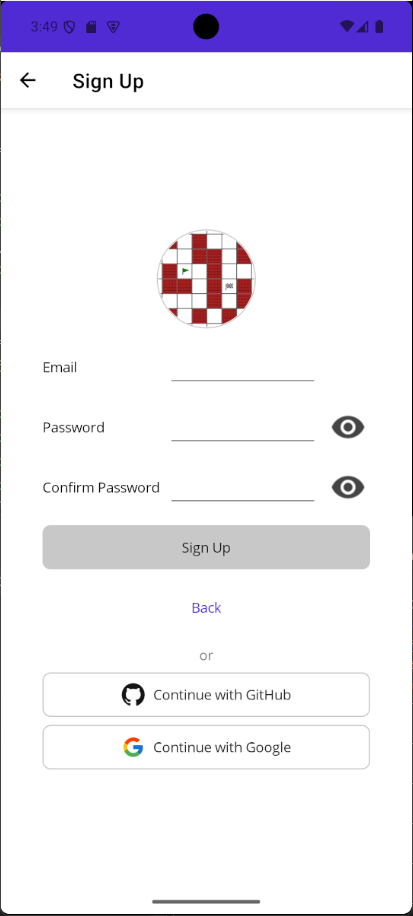
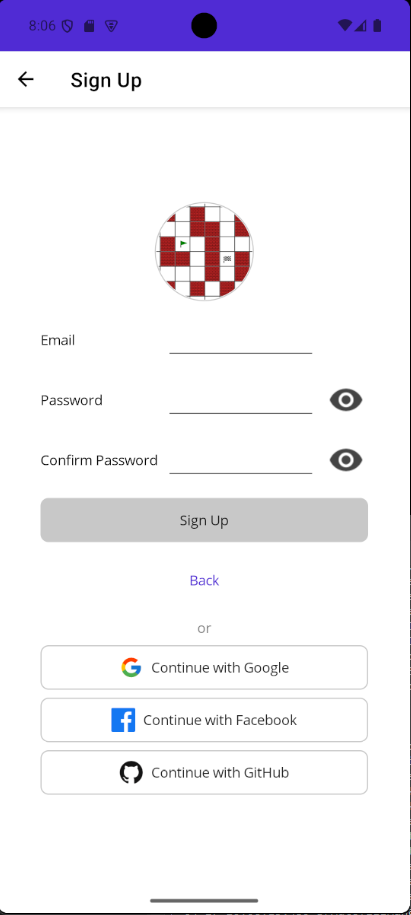
Maze.Maui.App: refresh Login/SignUp screenshots and README OAuth provider lists for the new Facebook button

diff --git a/src/rust/maze_web_server/README.md b/src/rust/maze_web_server/README.md
@@ -258,7 +258,7 @@ When a callback arrives the server applies these rules in order:
 
 OAuth-only users (those created via branch 3) cannot sign in via `POST /api/v1/login` — `verify_password` is hardened to reject empty / non-Argon2 hashes, returning `401 Invalid email or password`. They sign in only via the OAuth flow.
 
-> **Mismatched-email edge case (deliberately unsolved in v1):** if a user's existing password account uses a different email than their Google / GitHub account, branch (2) cannot see the connection and falls through to branch (3), creating a duplicate user. A future "Linked accounts" UI in My Account will provide an explicit-link path that side-steps this.
+> **Mismatched-email edge case (deliberately unsolved in v1):** if a user's existing password account uses a different email than their OAuth provider account, branch (2) cannot see the connection and falls through to branch (3), creating a duplicate user. A future "Linked accounts" UI in My Account will provide an explicit-link path that side-steps this.
 
 ### Default Admin Account
 

diff --git a/src/react/maze_web_server/README.md b/src/react/maze_web_server/README.md
@@ -6,7 +6,7 @@
 
 Browser-based UI for the `maze_web_server` REST API. Features:
 
-- **User accounts** — sign up/in/out, edit profile, change password, delete account, plus OAuth sign-in (Google, GitHub) rendered when the [`maze_web_server`](../../rust/maze_web_server/README.md) has those providers configured
+- **User accounts** — sign up/in/out, edit profile, change password, delete account, plus OAuth sign-in (Google, GitHub, Facebook) rendered when the [`maze_web_server`](../../rust/maze_web_server/README.md) has those providers configured
 - **Maze list** — create, open, rename, duplicate, delete, and play mazes
 - **Maze editor** — cell-by-cell editing (walls, start, finish), multi-cell range selection,
   structural editing (insert/delete rows and columns), keyboard shortcuts
